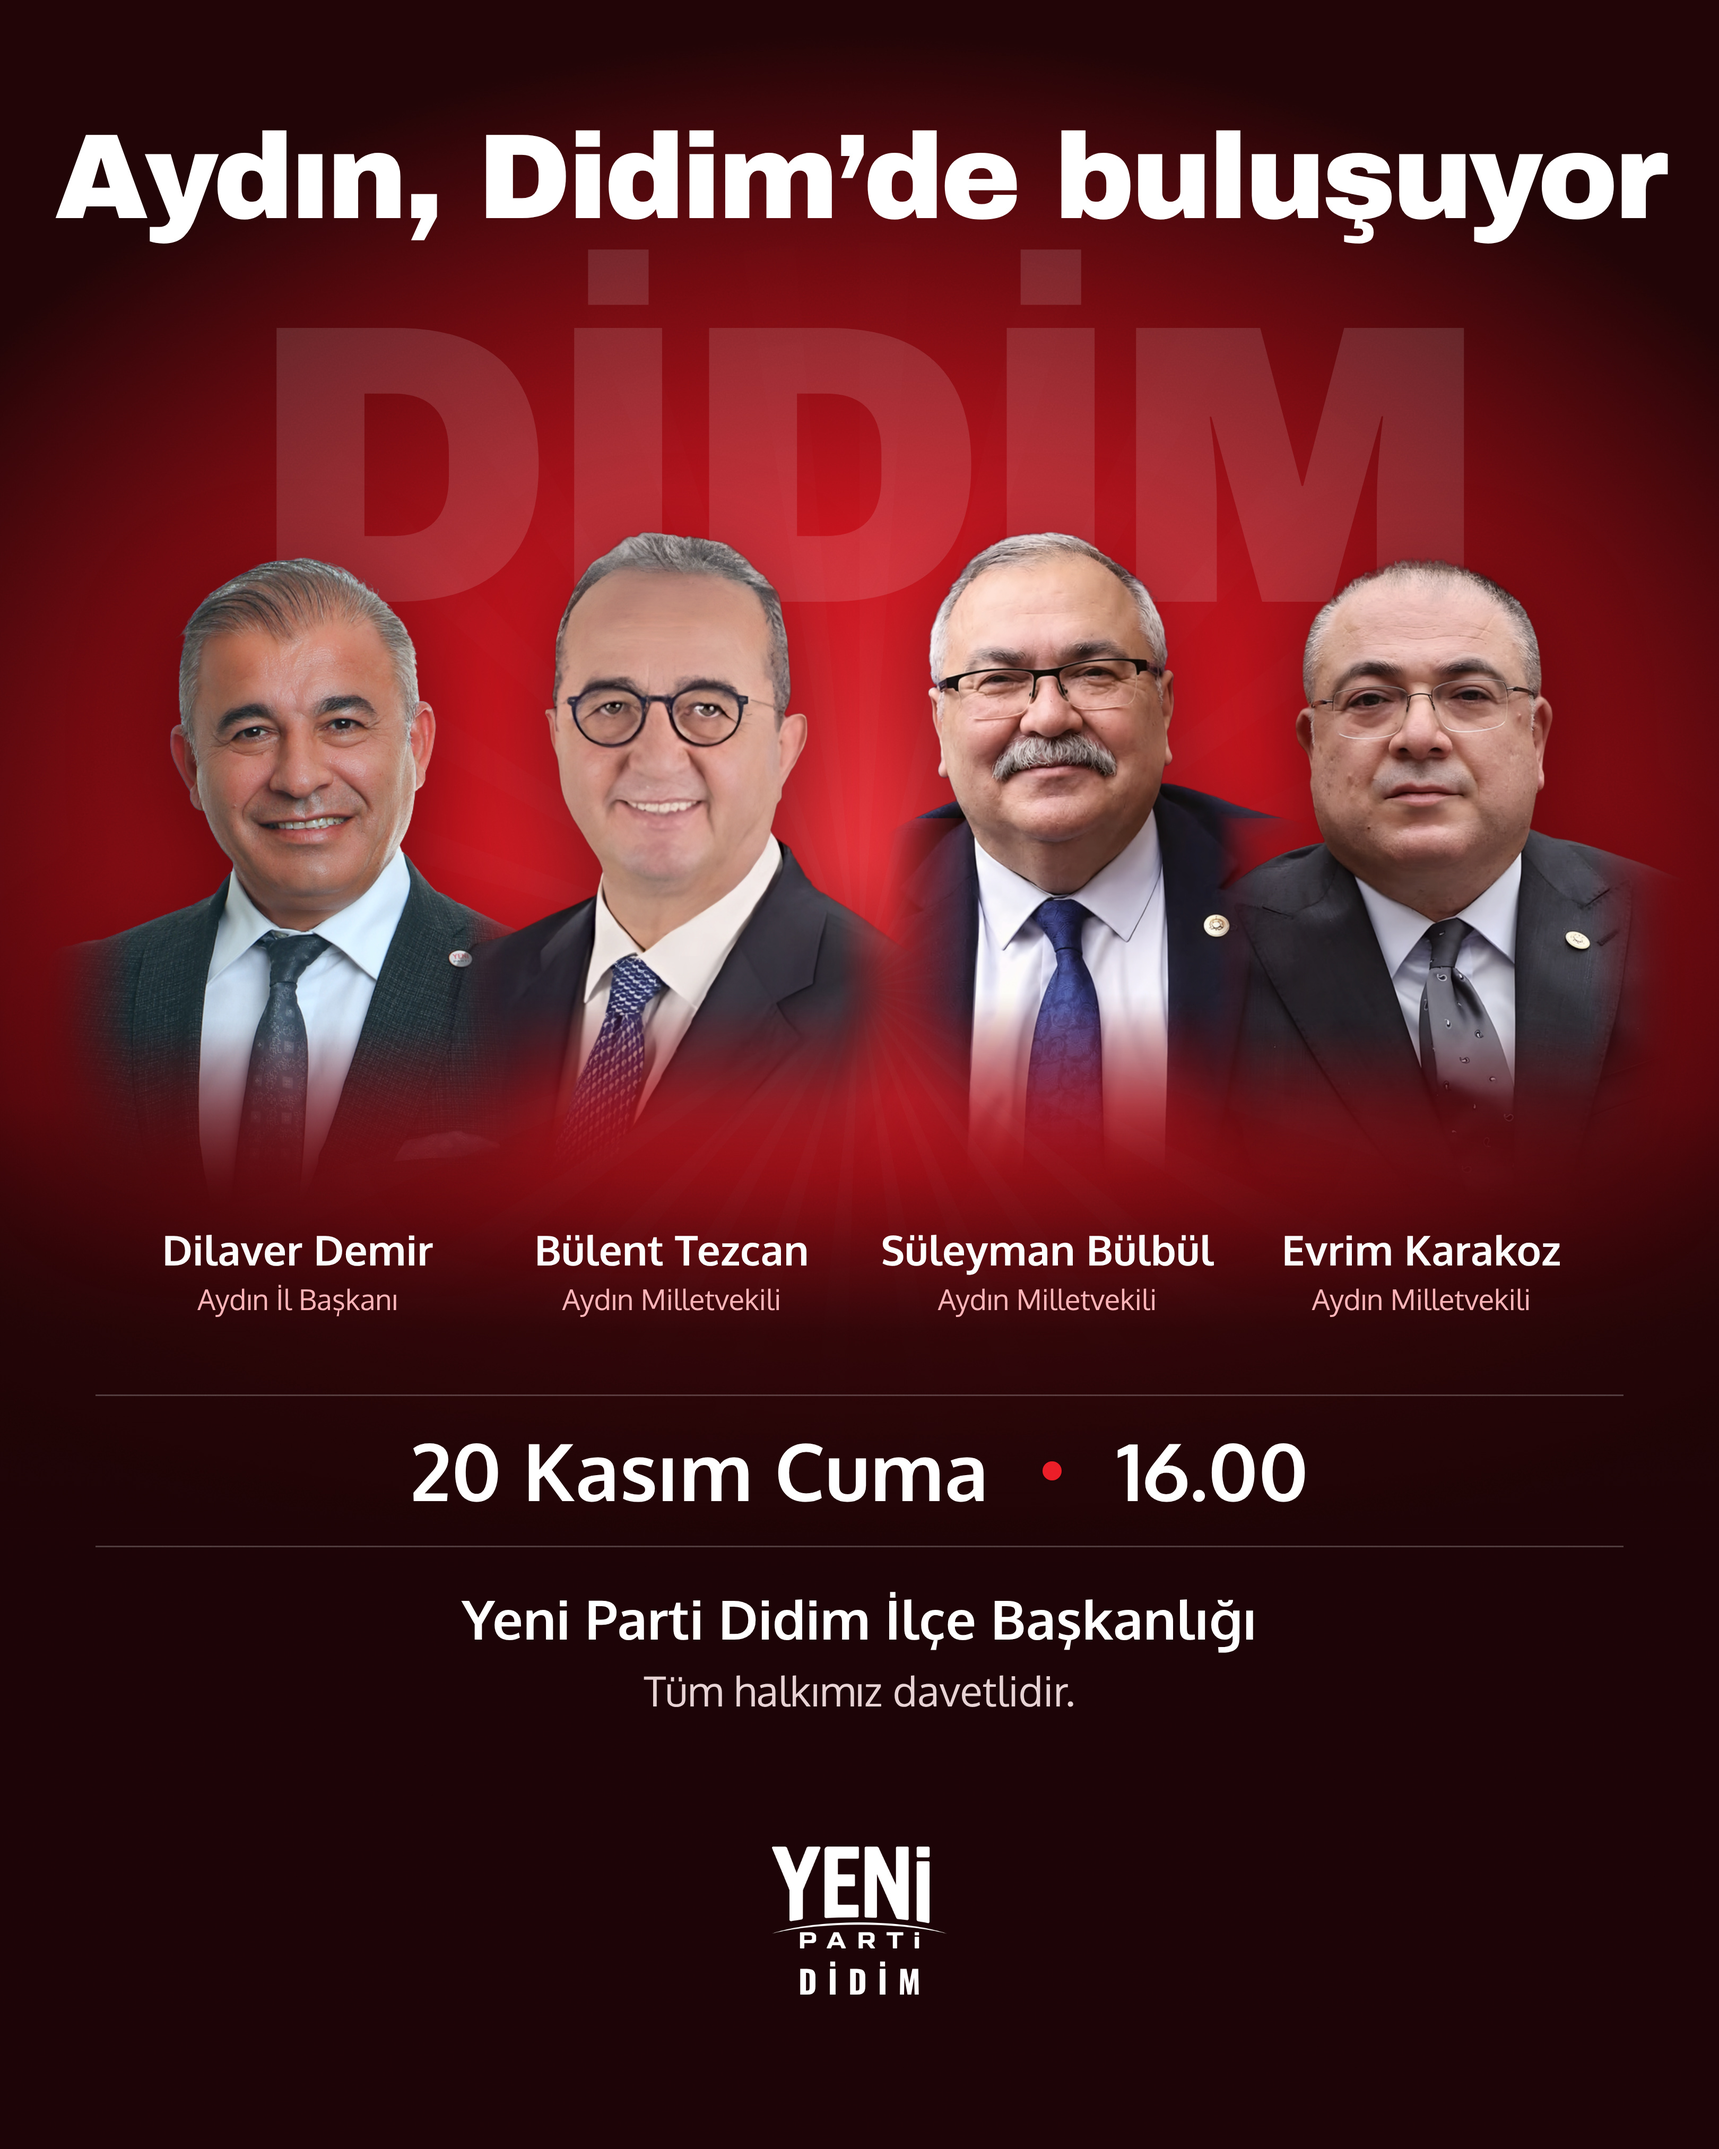
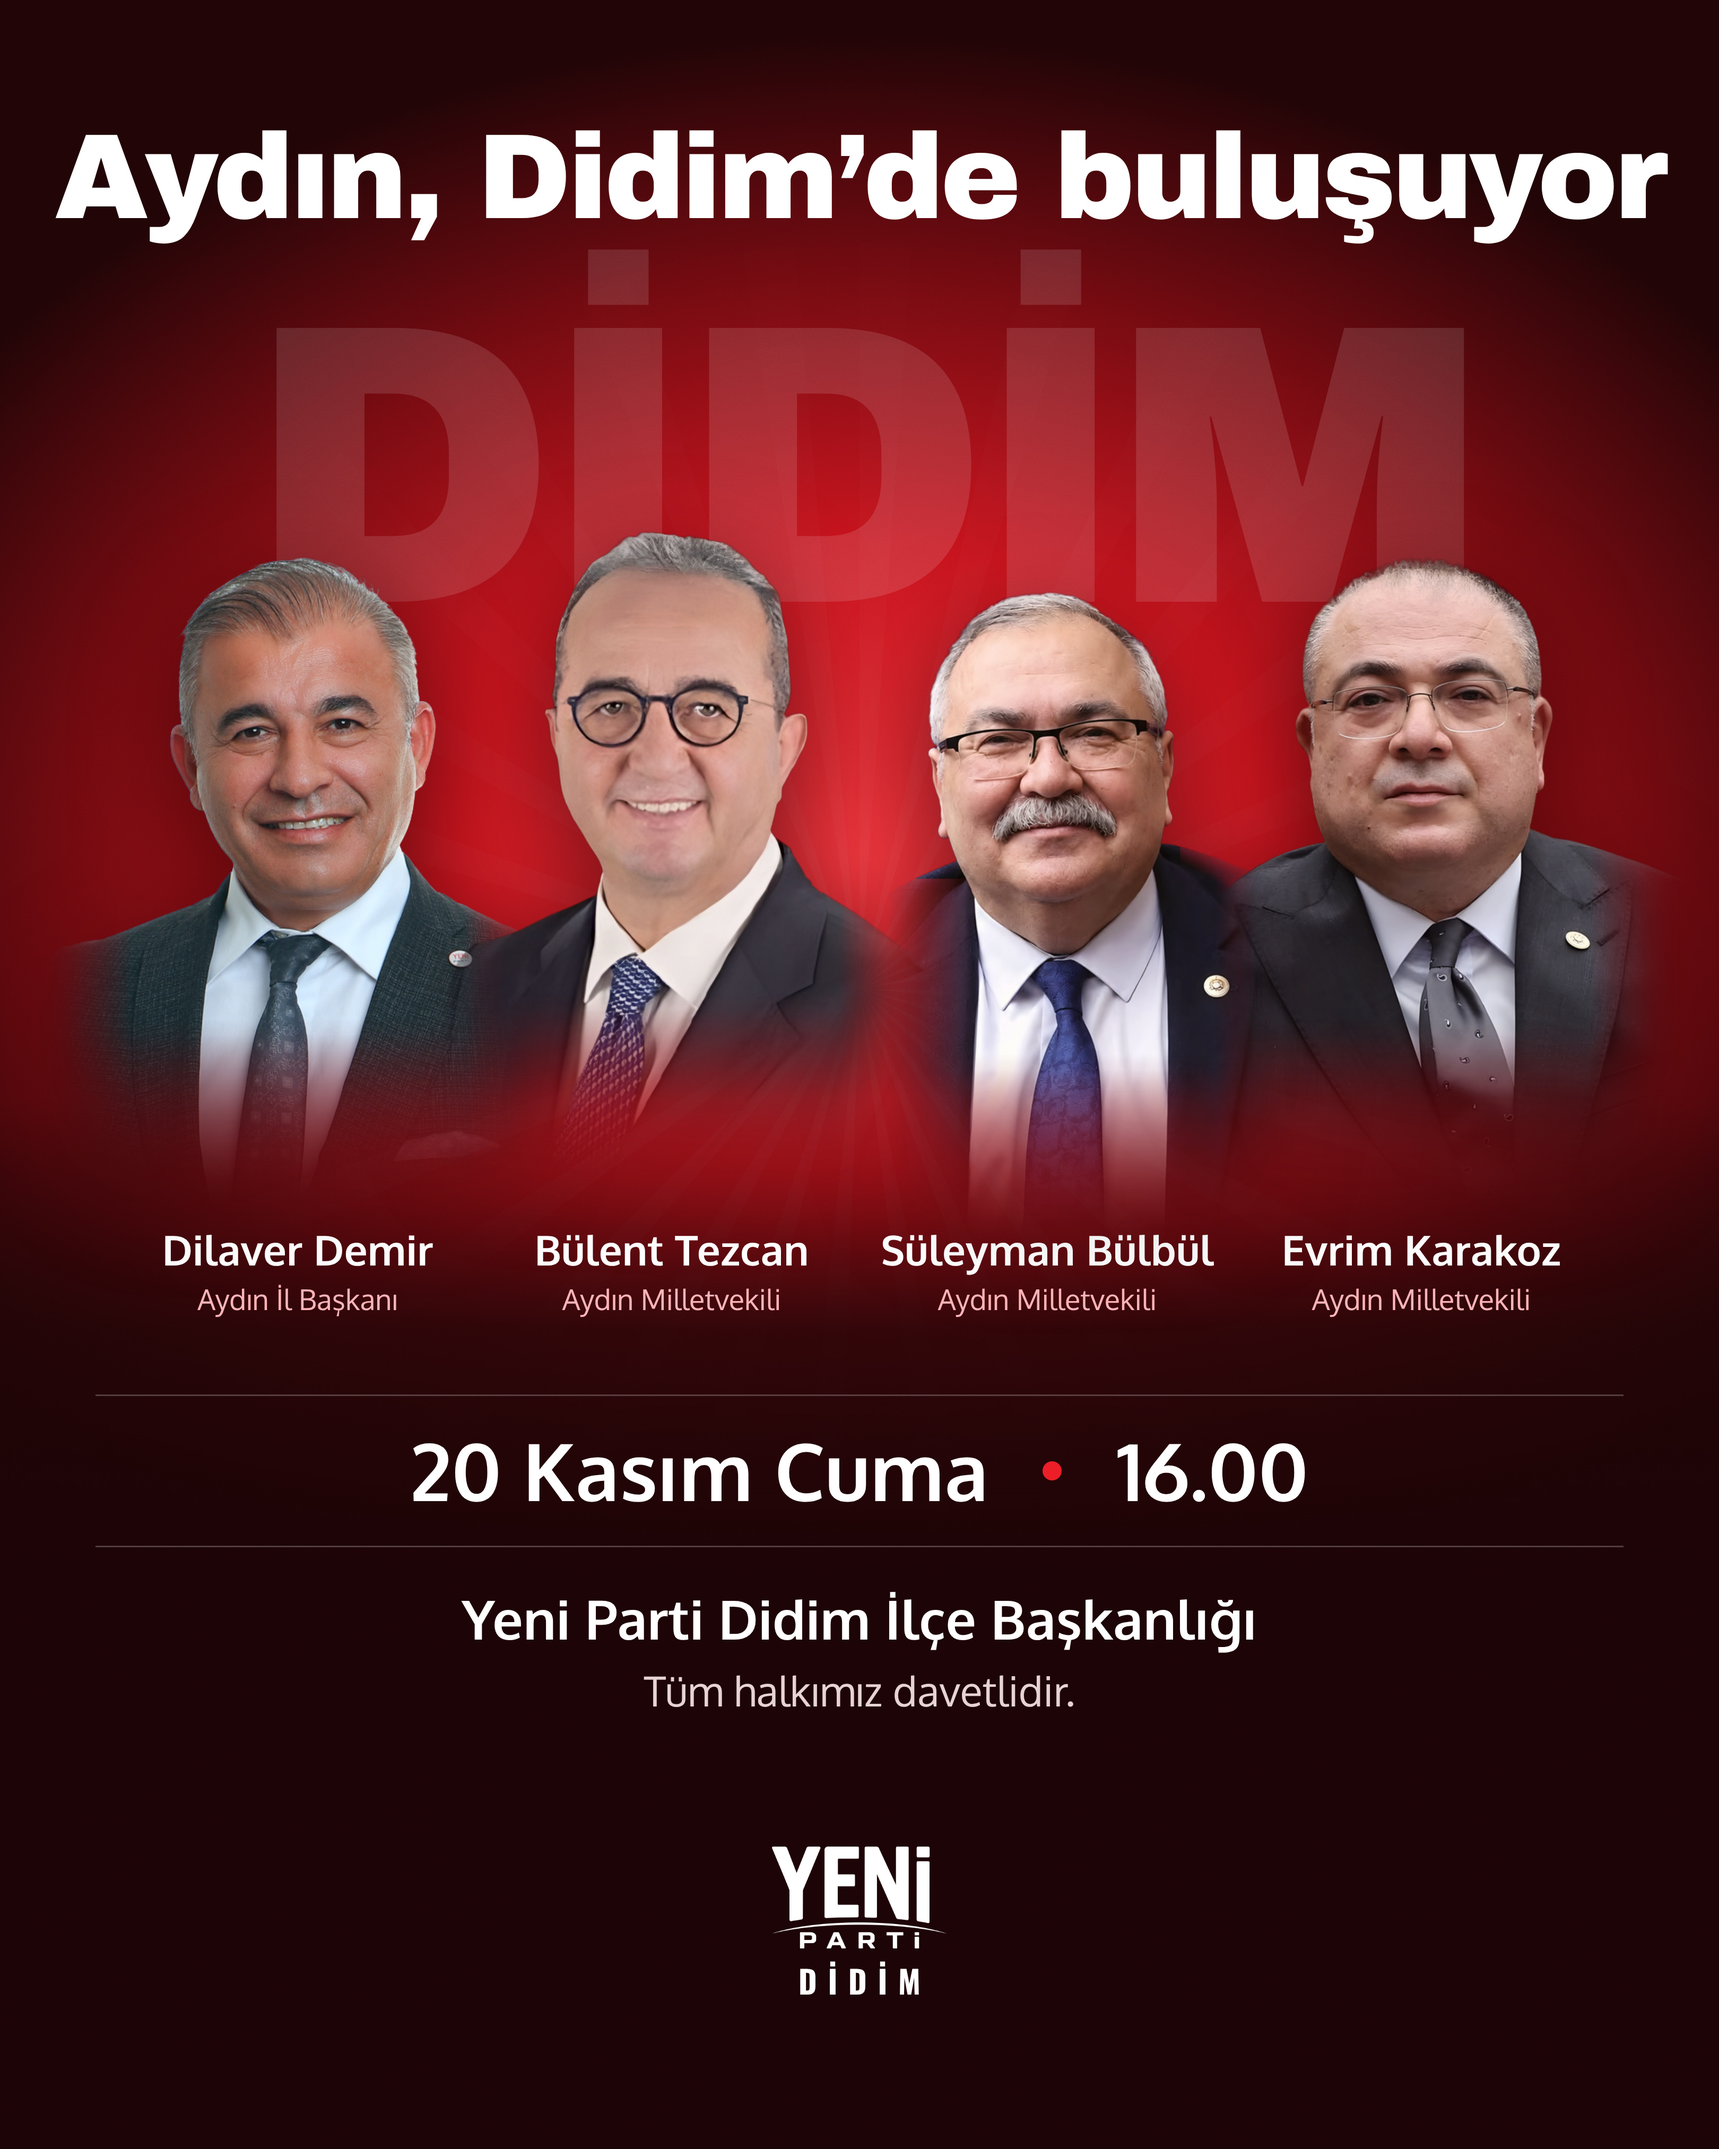
Vekil ziyareti: Süleyman Bülbül omuz hizası düzeltildi
Claude-Session: https://claude.ai/code/session_01SatttGbgBLoCnk9KGLypWv

Changed region(s): [[0.4988, 0.2489, 0.7481, 0.56]]

diff --git a/tasarim/kisisel/vekil-ziyaret/grup.html b/tasarim/kisisel/vekil-ziyaret/grup.html
@@ -28,7 +28,7 @@ background:radial-gradient(700px 520px at 50% 40%,#F2363E 0,#C8141E 38%,#6E0A10 
 <div class="arka">DİDİM</div>
 <div class="ust"><h1>Aydın, Didim’de buluşuyor</h1></div>
 
-<img class="p" src="demir-s.png" style="left:22px;top:320px;width:330px;z-index:1"><img class="p" src="tezcan-s.png" style="left:257px;top:304px;width:330px;z-index:2"><img class="p" src="bulbul-s.png" style="left:493px;top:304px;width:330px;z-index:2"><img class="p" src="karakoz-s.png" style="left:728px;top:320px;width:330px;z-index:1"><div class="alt"></div>
+<img class="p" src="demir-s.png" style="left:22px;top:320px;width:330px;z-index:1"><img class="p" src="tezcan-s.png" style="left:257px;top:304px;width:330px;z-index:2"><img class="p" src="bulbul-s.png" style="left:493px;top:342px;width:330px;z-index:2"><img class="p" src="karakoz-s.png" style="left:728px;top:320px;width:330px;z-index:1"><div class="alt"></div>
 <div class="isimler"><div style="left:187px"><b>Dilaver Demir</b><span>Aydın İl Başkanı</span></div><div style="left:422px"><b>Bülent Tezcan</b><span>Aydın Milletvekili</span></div><div style="left:658px"><b>Süleyman Bülbül</b><span>Aydın Milletvekili</span></div><div style="left:893px"><b>Evrim Karakoz</b><span>Aydın Milletvekili</span></div></div>
 <div class="bilgi"><b>20 Kasım Cuma</b><i></i><b>16.00</b></div>
 <div class="yer">Yeni Parti Didim İlçe Başkanlığı<small>Tüm halkımız davetlidir.</small></div>
